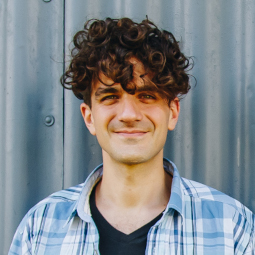
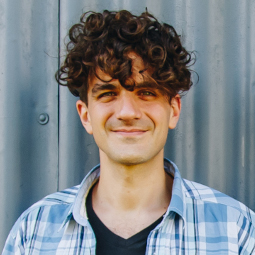
Removed modals

diff --git a/_layouts/default.html b/_layouts/default.html
@@ -21,7 +21,6 @@
     {% include studio.html %}
     {% include contact.html %}
     {% include footer.html %}
-    {% include modals.html %}
     {% include js.html %}
 
     </body>
